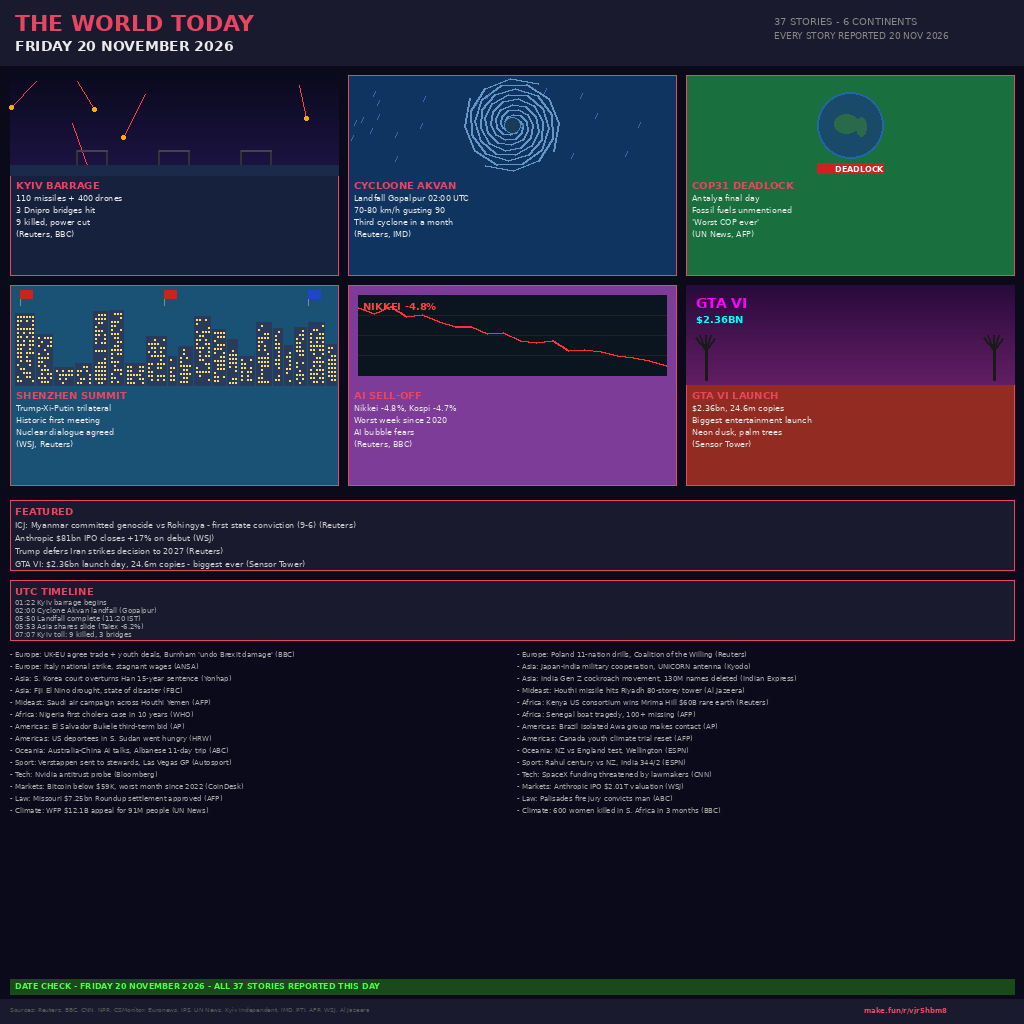
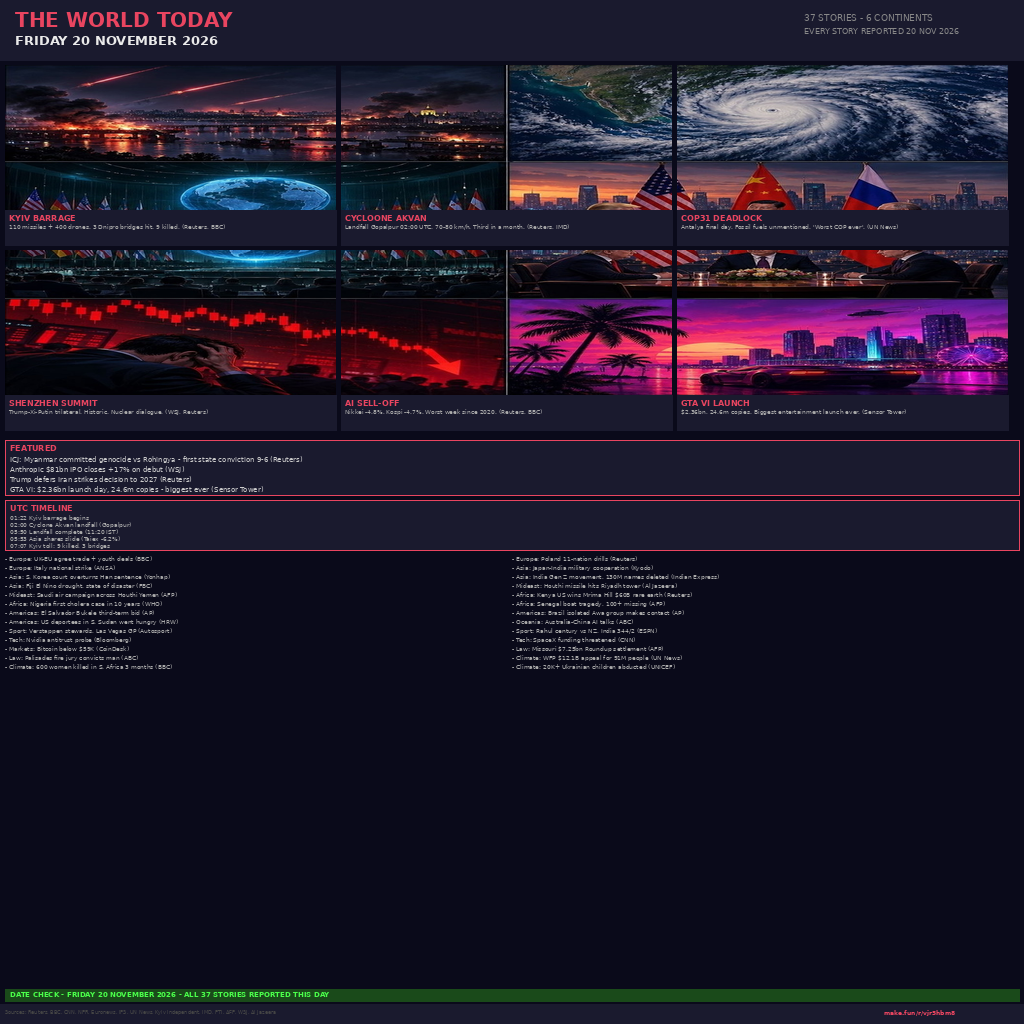
v4: AI-generated panel illustrations composed into magazine layout

diff --git a/compose.py b/compose.py
@@ -1,0 +1,154 @@
+"""Compose 6 AI-generated panels into a magazine-style news image."""
+from PIL import Image, ImageDraw, ImageFont
+import os
+
+W, H = 1024, 1024
+img = Image.new('RGB', (W, H), '#0a0a1a')
+draw = ImageDraw.Draw(img)
+
+def get_font(size, bold=False):
+    paths = [
+        '/usr/share/fonts/truetype/dejavu/DejaVuSans-Bold.ttf' if bold else '/usr/share/fonts/truetype/dejavu/DejaVuSans.ttf',
+        '/usr/share/fonts/truetype/liberation/LiberationSans-Bold.ttf' if bold else '/usr/share/fonts/truetype/liberation/LiberationSans-Regular.ttf',
+    ]
+    for p in paths:
+        if os.path.exists(p):
+            return ImageFont.truetype(p, size)
+    return ImageFont.load_default()
+
+# Load 6 panels
+panels = []
+for i in range(1, 7):
+    p = Image.open(f'/home/ubuntu/news-image-20261120/panel_{i}.jpg')
+    panels.append(p)
+
+# Header
+draw.rectangle([0, 0, W, 60], fill='#1a1a2e')
+draw.text((15, 8), "THE WORLD TODAY", fill='#e94560', font=get_font(20, True))
+draw.text((15, 32), "FRIDAY 20 NOVEMBER 2026", fill='#eaeaea', font=get_font(13, True))
+draw.text((W-220, 12), "37 STORIES - 6 CONTINENTS", fill='#888', font=get_font(9))
+draw.text((W-220, 26), "EVERY STORY REPORTED 20 NOV 2026", fill='#888', font=get_font(8))
+
+# 6 panels in 3x2 grid
+panel_w = (W - 30) // 3
+panel_h = 180
+start_y = 65
+
+titles = [
+    ("KYIV BARRAGE", "110 missiles + 400 drones. 3 Dnipro bridges hit. 9 killed. (Reuters, BBC)"),
+    ("CYCLOONE AKVAN", "Landfall Gopalpur 02:00 UTC. 70-80 km/h. Third in a month. (Reuters, IMD)"),
+    ("COP31 DEADLOCK", "Antalya final day. Fossil fuels unmentioned. 'Worst COP ever'. (UN News)"),
+    ("SHENZHEN SUMMIT", "Trump-Xi-Putin trilateral. Historic. Nuclear dialogue. (WSJ, Reuters)"),
+    ("AI SELL-OFF", "Nikkei -4.8%, Kospi -4.7%. Worst week since 2020. (Reuters, BBC)"),
+    ("GTA VI LAUNCH", "$2.36bn, 24.6m copies. Biggest entertainment launch ever. (Sensor Tower)"),
+]
+
+for i in range(6):
+    col = i % 3
+    row = i // 3
+    x = 5 + col * (panel_w + 5)
+    y = start_y + row * (panel_h + 5)
+    
+    # Panel image
+    panel_img = panels[i].resize((panel_w, panel_h - 35), Image.LANCZOS)
+    img.paste(panel_img, (x, y))
+    
+    # Title bar
+    draw.rectangle([x, y + panel_h - 35, x + panel_w, y + panel_h], fill='#1a1a2e')
+    draw.text((x + 4, y + panel_h - 32), titles[i][0], fill='#e94560', font=get_font(8, True))
+    
+    # Subtitle
+    words = titles[i][1].split()
+    lines = []
+    current = ""
+    for w in words:
+        test = current + " " + w if current else w
+        if draw.textlength(test, font=get_font(6)) > panel_w - 8:
+            lines.append(current)
+            current = w
+        else:
+            current = test
+    if current:
+        lines.append(current)
+    for j, line in enumerate(lines[:2]):
+        draw.text((x + 4, y + panel_h - 22 + j * 8), line, fill='#aaa', font=get_font(6))
+
+# Featured band
+feat_y = start_y + 2 * (panel_h + 5) + 5
+draw.rectangle([5, feat_y, W-5, feat_y+55], fill='#1a1a2e', outline='#e94560', width=1)
+draw.text((10, feat_y+3), "FEATURED", fill='#e94560', font=get_font(8, True))
+draw.text((10, feat_y+15), "ICJ: Myanmar committed genocide vs Rohingya - first state conviction 9-6 (Reuters)", fill='#ccc', font=get_font(7))
+draw.text((10, feat_y+25), "Anthropic $81bn IPO closes +17% on debut (WSJ)", fill='#ccc', font=get_font(7))
+draw.text((10, feat_y+35), "Trump defers Iran strikes decision to 2027 (Reuters)", fill='#ccc', font=get_font(7))
+draw.text((10, feat_y+45), "GTA VI: $2.36bn launch day, 24.6m copies - biggest ever (Sensor Tower)", fill='#ccc', font=get_font(7))
+
+# UTC Timeline
+tl_y = feat_y + 60
+draw.rectangle([5, tl_y, W-5, tl_y+50], fill='#1a1a2e', outline='#e94560', width=1)
+draw.text((10, tl_y+3), "UTC TIMELINE", fill='#e94560', font=get_font(8, True))
+timeline = [
+    "01:22 Kyiv barrage begins",
+    "02:00 Cyclone Akvan landfall (Gopalpur)",
+    "05:50 Landfall complete (11:20 IST)",
+    "05:53 Asia shares slide (Taiex -6.2%)",
+    "07:07 Kyiv toll: 9 killed, 3 bridges",
+]
+for i, t in enumerate(timeline):
+    draw.text((10, tl_y+14+i*7), t, fill='#aaa', font=get_font(6))
+
+# Brief stories
+brief_y = tl_y + 55
+brief = [
+    "Europe: UK-EU agree trade + youth deals (BBC)",
+    "Europe: Poland 11-nation drills (Reuters)",
+    "Europe: Italy national strike (ANSA)",
+    "Asia: Japan-India military cooperation (Kyodo)",
+    "Asia: S. Korea court overturns Han sentence (Yonhap)",
+    "Asia: India Gen Z movement, 130M names deleted (Indian Express)",
+    "Asia: Fiji El Nino drought, state of disaster (FBC)",
+    "Mideast: Houthi missile hits Riyadh tower (Al Jazeera)",
+    "Mideast: Saudi air campaign across Houthi Yemen (AFP)",
+    "Africa: Kenya US wins Mrima Hill $60B rare earth (Reuters)",
+    "Africa: Nigeria first cholera case in 10 years (WHO)",
+    "Africa: Senegal boat tragedy, 100+ missing (AFP)",
+    "Americas: El Salvador Bukele third-term bid (AP)",
+    "Americas: Brazil isolated Awa group makes contact (AP)",
+    "Americas: US deportees in S. Sudan went hungry (HRW)",
+    "Oceania: Australia-China AI talks (ABC)",
+    "Sport: Verstappen stewards, Las Vegas GP (Autosport)",
+    "Sport: Rahul century vs NZ, India 344/2 (ESPN)",
+    "Tech: Nvidia antitrust probe (Bloomberg)",
+    "Tech: SpaceX funding threatened (CNN)",
+    "Markets: Bitcoin below $59K (CoinDesk)",
+    "Law: Missouri $7.25bn Roundup settlement (AFP)",
+    "Law: Palisades fire jury convicts man (ABC)",
+    "Climate: WFP $12.1B appeal for 91M people (UN News)",
+    "Climate: 600 women killed in S. Africa 3 months (BBC)",
+    "Climate: 20K+ Ukrainian children abducted (UNICEF)",
+]
+
+col_w = (W - 20) // 2
+for i, text in enumerate(brief):
+    col = i % 2
+    row = i // 2
+    x = 5 + col * (col_w + 5)
+    y = brief_y + row * 9
+    if y < H - 40:
+        draw.text((x, y), f"- {text}", fill='#aaa', font=get_font(6))
+
+# Proof strip
+proof_y = H - 35
+draw.rectangle([5, proof_y, W-5, proof_y+12], fill='#1a4a1a')
+draw.text((10, proof_y+1), "DATE CHECK - FRIDAY 20 NOVEMBER 2026 - ALL 37 STORIES REPORTED THIS DAY", fill='#4aff4a', font=get_font(7, True))
+
+# Footer
+draw.rectangle([0, H-20, W, H], fill='#1a1a2e')
+draw.text((5, H-15), "Sources: Reuters, BBC, CNN, NPR, Euronews, IPS, UN News, Kyiv Independent, IMD, PTI, AFP, WSJ, Al Jazeera", fill='#444', font=get_font(5))
+draw.text((W-140, H-15), "make.fun/r/vjr5hbm8", fill='#e94560', font=get_font(6, True))
+
+# Save
+out = os.environ.get('MAKEFUN_OUTPUT_DIR', '/tmp')
+os.makedirs(out, exist_ok=True)
+path = os.path.join(out, 'entry.png')
+img.save(path, 'PNG')
+print(f"saved: {path} ({os.path.getsize(path)} bytes)")
